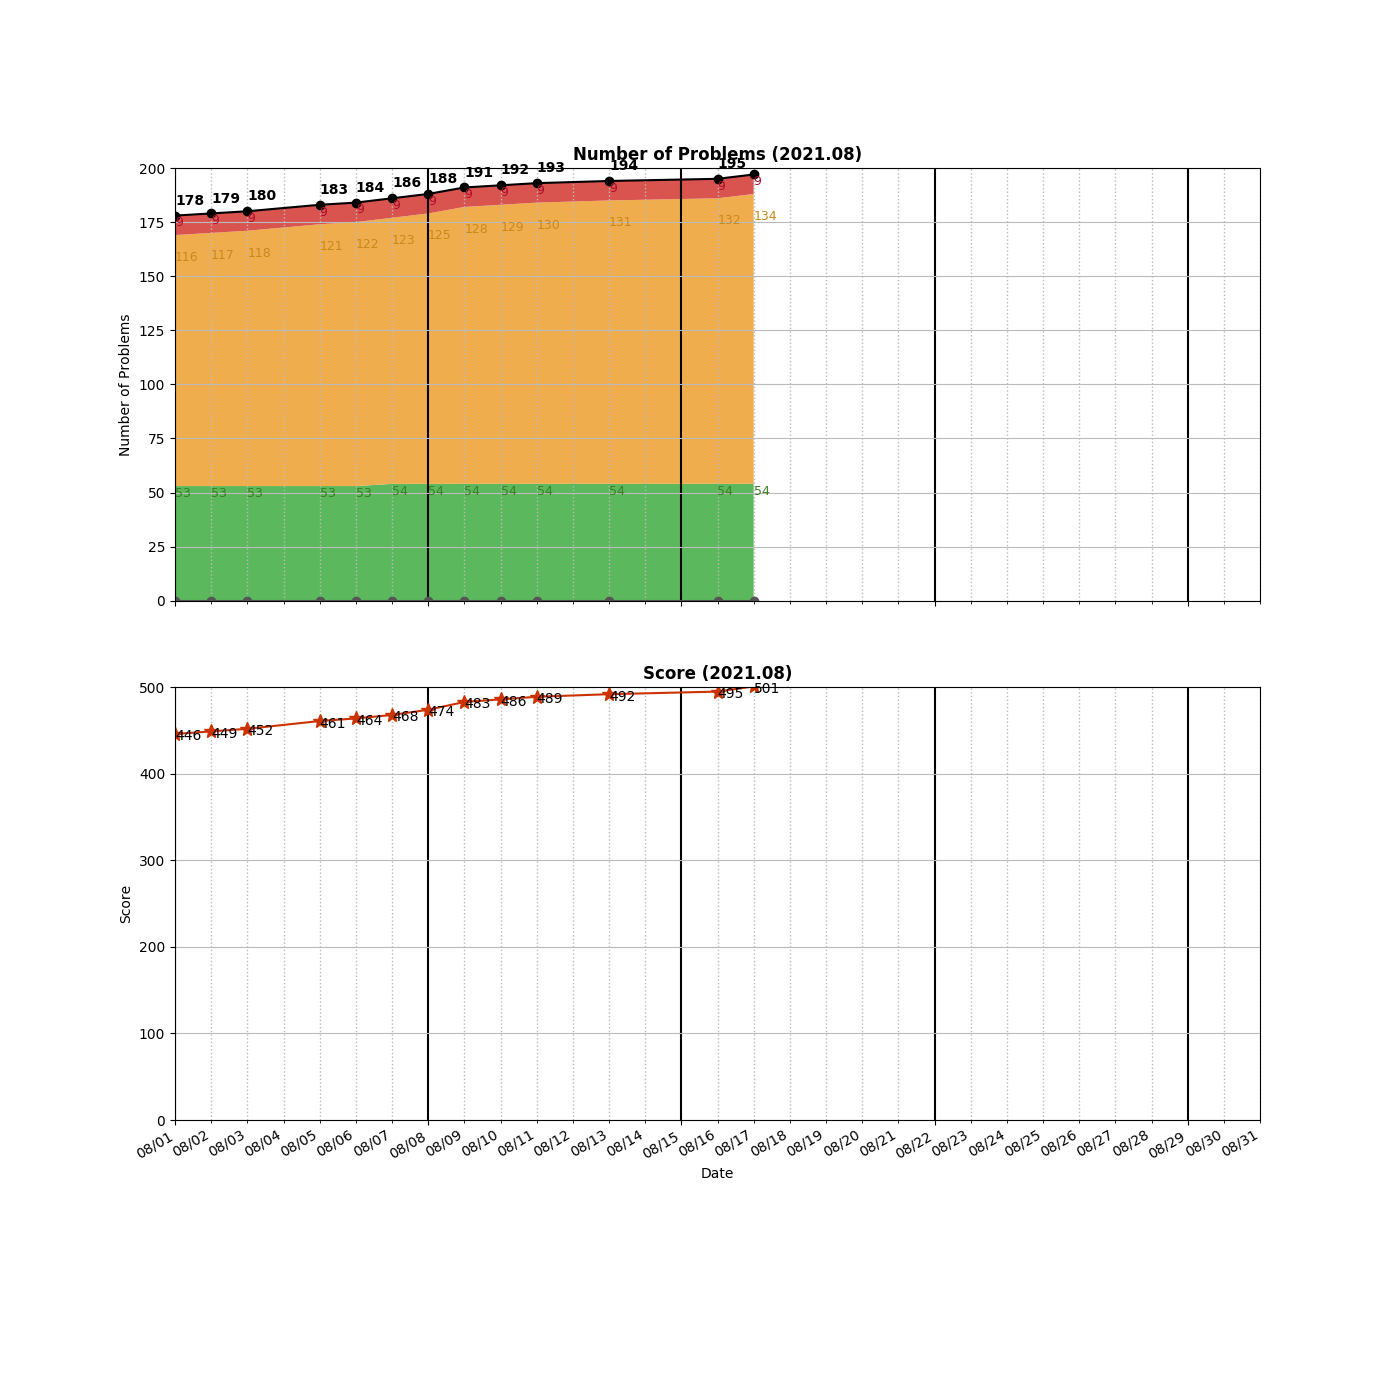
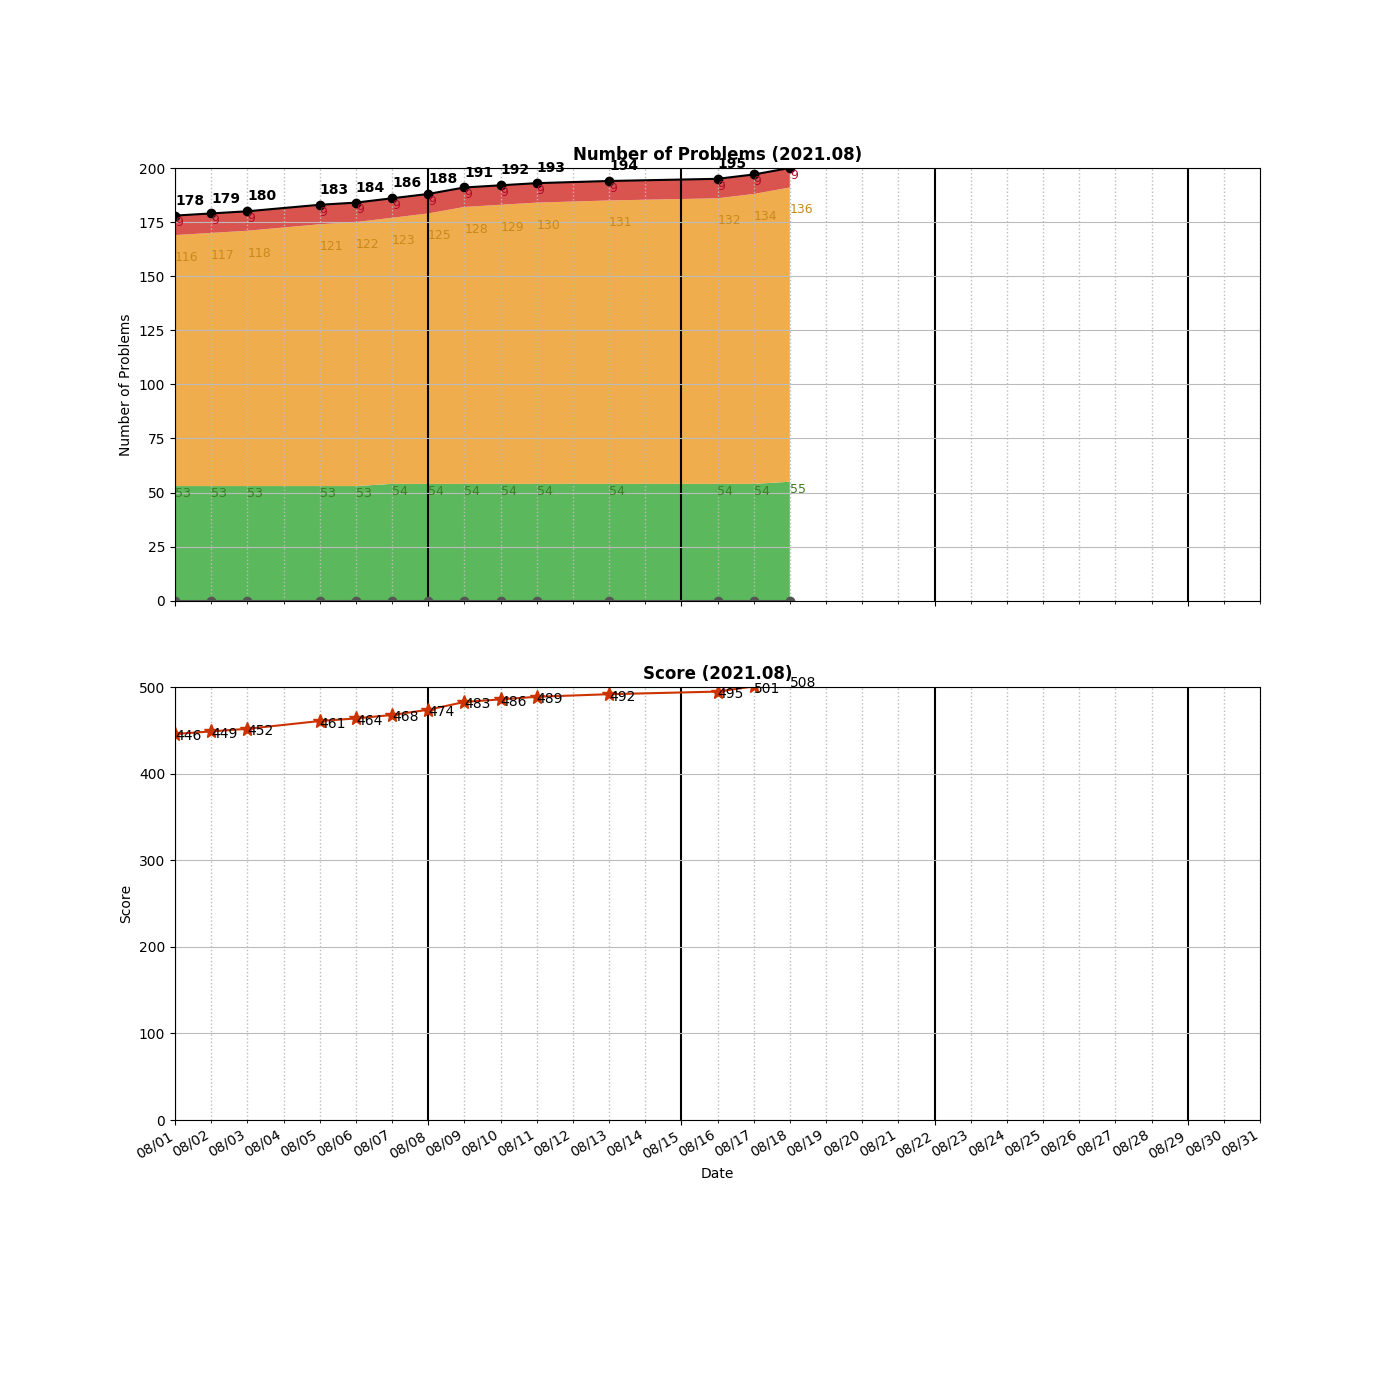
Added __0542__01 Matrix.py

Changed region(s): [[0.5221, 0.1229, 0.5836, 0.43]]

diff --git a/algo/DP/__0542__01 Matrix.py b/algo/DP/__0542__01 Matrix.py
@@ -1,0 +1,65 @@
+class Solution:
+    
+    # DP [O(mn): 65%]
+    def updateMatrix(self, mat: List[List[int]]) -> List[List[int]]:
+        print("DP")
+        if len(mat) == 0 or len(mat[0]) == 0:
+            return []
+        m, n = len(mat), len(mat[0])
+        dp = [[float('inf') for _ in range(n)] for _ in range(m)] 
+        
+        # Go Down and Right
+        for i in range(m):
+            for j in range(n):
+                if mat[i][j] == 0:
+                    dp[i][j] = 0
+                    continue
+                if i > 0:
+                    dp[i][j] = min(dp[i][j], dp[i-1][j] + 1)
+                if j > 0:
+                    dp[i][j] = min(dp[i][j], dp[i][j-1] + 1)
+        
+        # Go Top and Left 
+        for i in range(m-1, -1, -1):
+            for j in range(n-1, -1, -1):
+                if i < m - 1:
+                    dp[i][j] = min(dp[i][j], dp[i+1][j] + 1)
+                if j < n - 1:
+                    dp[i][j] = min(dp[i][j], dp[i][j+1] + 1)
+        return dp
+    
+    # ===============================================================
+    # BFS [O(mn): 14%]
+    def updateMatrix1(self, mat: List[List[int]]) -> List[List[int]]:
+        print("BFS")
+        if len(mat) == 0 or len(mat[0]) == 0:
+            return []
+        
+        m, n = len(mat), len(mat[0])
+        res = [[float('inf') for _ in range(n)] for _ in range(m)] 
+        deq = collections.deque([])
+        
+        # Initialize 
+        for i in range(m):
+            for j in range(n):
+                if mat[i][j] == 0:
+                    res[i][j] = 0
+                    deq.append((i, j))
+        #BFS 
+        while deq:
+            i, j = deq.popleft()
+            for (ni, nj) in [(i+1, j), (i-1, j), (i, j+1), (i, j-1)] :
+                if not ((0 <= ni < m) and (0 <= nj < n)):
+                    continue
+                if res[ni][nj] != float('inf'):
+                    continue
+                    
+                val = float('inf')
+                for (nni, nnj) in [(ni+1, nj), (ni-1, nj), (ni, nj+1), (ni, nj-1)] :
+                    if ((0 <= nni < m) and (0 <= nnj < n)):
+                        val = min(val, res[nni][nnj])
+                val += 1
+                res[ni][nj] = val
+                deq.append((ni, nj))
+        return res
+                

diff --git a/README.md b/README.md
@@ -56,6 +56,7 @@ algo
 │   ├── __0112__Path\ Sum.py
 │   ├── __0113__Path\ Sum\ II.py
 │   ├── __0130__Surrounded\ Regions.py
+│   ├── __0131__Palindrome\ Partitioning.py
 │   ├── __0139__Word\ Break.py
 │   ├── __0200__Number\ of\ Islands.py
 │   ├── __0216__Combination\ Sum\ III.py
@@ -88,9 +89,11 @@ algo
 │   ├── __0474__Ones\ and\ Zeroes.py
 │   ├── __0494__Target\ Sum.py
 │   ├── __0518__Coin\ Change\ 2.py
+│   ├── __0542__01\ Matrix.py
 │   ├── __0576__Out\ of\ Boundary\ Paths.py
 │   ├── __0935__Knight\ Dialer.py
 │   ├── __1130__Minimum\ Cost\ Tree\ From\ Leaf\ Values.py
+│   ├── __1137__N-th\ Tribonacci\ Number.py
 │   ├── __1143__Longest\ Common\ Subsequence.py
 │   └── __1395__Count\ Number\ of\ Teams.py
 ├── DataStructure
@@ -224,7 +227,7 @@ algo
         ├── LinkedList.cpython-37.pyc
         └── UnrolledLinkedList.cpython-37.pyc
 
-21 directories, 202 files
+21 directories, 205 files
 
 =====================================
 ============= Local Repo ============
@@ -299,6 +302,7 @@ __0125__Valid Palindrome.py
 __0127__Word Ladder.py
 __0128__Longest Consecutive Sequence.py
 __0130__Surrounded Regions.py
+__0131__Palindrome Partitioning.py
 __0133__Clone Graph.py
 __0136__Single Number.py
 __0138__Copy List with Random Pointer.py
@@ -375,6 +379,7 @@ __0518__Coin Change 2.py
 __0532__K-diff Pairs in an Array.py
 __0538__Convert BST to Greater Tree.py
 __0540__Single Element in a Sorted Array.py
+__0542__01 Matrix.py
 __0543__Diameter of Binary Tree.py
 __0547__Number of Provinces.py
 __0559__Maximum Depth of N-ary Tree.py
@@ -410,6 +415,7 @@ __0973__K Closest Points to Origin.py
 __1099__Two Sum Less Than K.py
 __1110__Delete Nodes And Return Forest.py
 __1130__Minimum Cost Tree From Leaf Values.py
+__1137__N-th Tribonacci Number.py
 __1143__Longest Common Subsequence.py
 __1214__Two Sum BSTs.py
 __1254__Number of Closed Islands.py
@@ -423,7 +429,7 @@ __1593__Split a String Into the Max Number of Unique Substrings.py
 __1711__Count Good Meals.py
 __1905__Count Sub Islands.py
 =====================================
-Num of Python Practice:  193
+Num of Python Practice:  196
 
 
 =====================================
@@ -501,6 +507,7 @@ Num of Python Practice:  193
  0127 Word Ladder
  0128 Longest Consecutive Sequence
  0130 Surrounded Regions
+ 0131 Palindrome Partitioning
  0133 Clone Graph
  0136 Single Number
  0138 Copy List with Random Pointer
@@ -577,6 +584,7 @@ Num of Python Practice:  193
  0532 K-diff Pairs in an Array
  0538 Convert BST to Greater Tree
  0540 Single Element in a Sorted Array
+ 0542 01 Matrix
  0543 Diameter of Binary Tree
  0547 Number of Provinces
  0559 Maximum Depth of N-ary Tree
@@ -614,6 +622,7 @@ Num of Python Practice:  193
  1099 Two Sum Less Than K
  1110 Delete Nodes And Return Forest
  1130 Minimum Cost Tree From Leaf Values
+ 1137 N-th Tribonacci Number
  1143 Longest Common Subsequence
  1214 Two Sum BSTs
  1254 Number of Closed Islands
@@ -627,11 +636,11 @@ Num of Python Practice:  193
  1711 Count Good Meals
  1905 Count Sub Islands
 =====================================
-Solved / Total (Easy)  :   54 /  511
-Solved / Total (Medium):  134 / 1042
+Solved / Total (Easy)  :   55 /  511
+Solved / Total (Medium):  136 / 1042
 Solved / Total (Hard)  :    9 /  419
-Solved / Total (All)   :  197 / 1972
-Total Score            :  501
+Solved / Total (All)   :  200 / 1972
+Total Score            :  508
 =====================================
 
 ```
